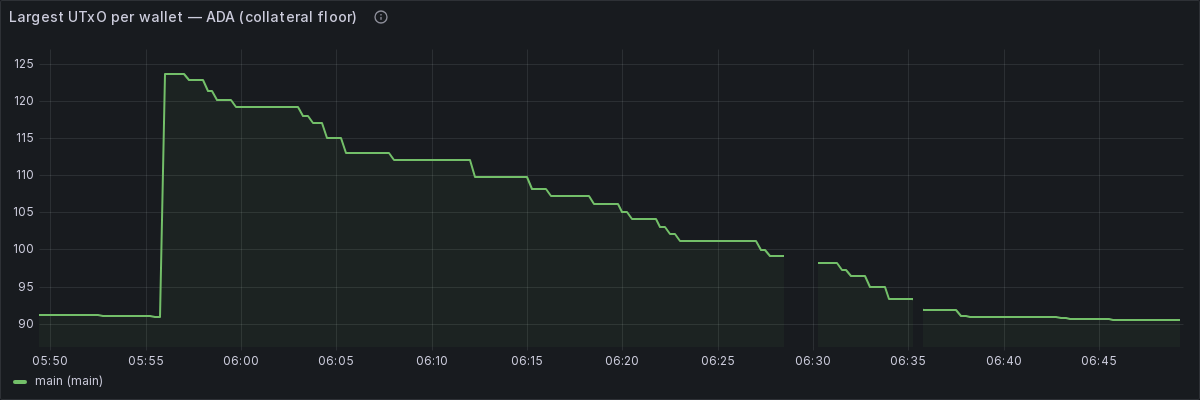
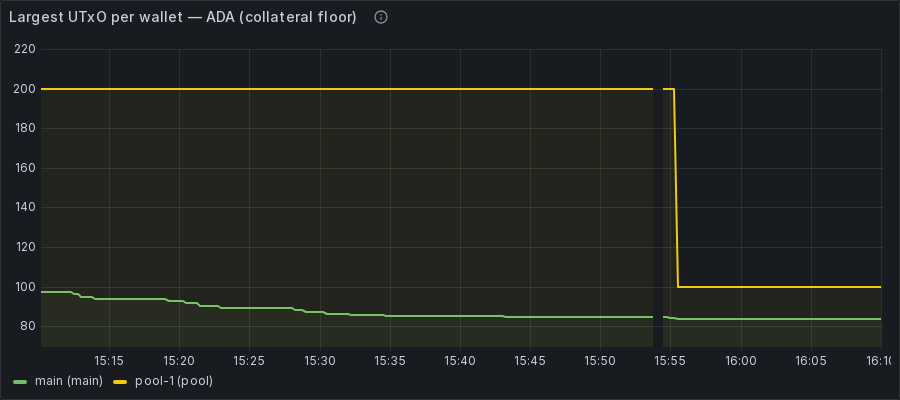
docs(architecture): document the final wallet-shaping behavior + re-render dashboards
- feeder README, feeder.md, grafana-dashboards.md: the auto-split trigger is
  the usable-UTxO count (no balance gate), funding pays the missing shape
  pieces in one tx, working-first with collateral only once lanes are full;
  re-aligned alert/threshold numbers (PoolWalletLow 150, WalletConcentrated =
  usable < 5) and the metric catalog.
- Re-render the Signer Wallets dashboard (5 panels): add the new Total balance
  panel image; refresh the others against live multi-wallet data.

diff --git a/docs/architecture/grafana-dashboards.md b/docs/architecture/grafana-dashboards.md
@@ -47,8 +47,8 @@ shown as `{…}`). Dashboard PNG snapshots are rendered by `make evidence3` (the
 | **Signer Wallets** | `feeder-wallets` | per signer wallet | "Is each signer wallet funded, collateral-capable, and split enough to feed parallel lanes?" |
 
 The **Signer Wallets** dashboard (filter: `$wallet`) shows the multi-wallet pool's
-per-wallet `cardano_wallet_*{wallet,role}` gauges — spendable balance, largest UTxO
-(collateral floor), usable-UTxO count, and active arbiter reservations — backing the
+per-wallet `cardano_wallet_*{wallet,role}` gauges — total balance, spendable balance,
+largest UTxO (collateral floor), usable-UTxO count, and active arbiter reservations — backing the
 `PoolWalletLow` / `MainWalletCannotFundPool` / `WalletConcentrated` alerts.
 
 **Why different units?** The feeder batches: one Cardano transaction can carry **N price
@@ -127,7 +127,7 @@ what changes:
 | **Admin / PaymentHook / Receiver-accrued (sum) · Scanner block lag · Provider health** | – | – | – | – | – |
 | Tx fee avg · Tx involving router | ✓ | ✓ | ✓ | (fee only) | – |
 | All Transactions-dashboard panels | ✓ | ✓ | (membership) | (membership) | – |
-| **Signer Wallets panels** (spendable · largest UTxO · usable UTxOs · reservations) | – | – | – | – | – |
+| **Signer Wallets panels** (total · spendable · largest UTxO · usable UTxOs · reservations) | – | – | – | – | – |
 
 > The **global** panels never change with filters: *Admin / PaymentHook / Receiver-accrued
 > (sum)* (protocol-wide singletons), *Scanner block lag* (one scanner), and *Provider health*
@@ -783,7 +783,7 @@ Per signer-wallet health for the multi-wallet pool (filtered by `network` **and*
 one place to answer "is each wallet funded, collateral-capable, and spread across enough UTxOs to
 feed parallel lanes?". The feeder signs every Cardano tx from a **pool** of wallets; an arbiter hands
 each concurrent lane a disjoint subset of one wallet's UTxOs so two lanes never pick the same input.
-These four gauges are emitted once per balance-refresh tick, one series per wallet, and back the
+These five gauges are emitted once per balance-refresh tick, one series per wallet, and back the
 `PoolWalletLow` / `MainWalletCannotFundPool` / `WalletConcentrated` alerts.
 
 The `$wallet` filter is a multi-value list of every wallet id (default `.*` = all). `wallet="main"`
@@ -792,6 +792,18 @@ is the wallet registered on-chain as the PaymentHook `withdrawAddress` (where wi
 runs a one-wallet pool, so the dashboard shows a single `main` series — see the README's signer-pool
 section for enabling pool wallets.
 
+**Total balance per wallet — ADA** · `timeseries` · ADA — `dia_bridge_cardano_wallet_total_lovelace{…, wallet=~"$wallet"} / 1e6`
+
+![Total balance per wallet — ADA](img/wallets-panel-5.png)
+
+- **What it shows** — each wallet's gross lovelace across **all** live UTxOs at that address,
+  including UTxOs currently reserved by a lane and UTxOs that also carry native assets.
+- **How to read it** — this is the inventory view. Compare it with the spendable panel to spot
+  a wallet that looks rich in total ADA but has little actually available for the next build.
+- **When to worry** — a wide, persistent gap between total and spendable usually means the wallet
+  is tied up in active reservations, fragmented into unusable/token-bearing UTxOs, or waiting on
+  the next balance-refresh tick after recent movement.
+
 **Spendable per wallet — ADA** · `timeseries` · ADA — `dia_bridge_cardano_wallet_spendable_lovelace{…, wallet=~"$wallet"} / 1e6`
 
 ![Spendable per wallet — ADA](img/wallets-panel-1.png)
@@ -799,9 +811,9 @@ section for enabling pool wallets.
 - **What it shows** — each wallet's spendable balance: the lovelace in **unlocked, pure-ADA** UTxOs,
   i.e. what a new tx can actually draw on (locked/reserved UTxOs and asset-bearing UTxOs are excluded).
   One line per wallet (`{{wallet}} ({{role}})`).
-- **How to read it** — green at/above **50 ADA**; the band between a pool wallet's low mark and its
-  fill target gives the funding hysteresis.
-- **When to worry** — a `role="pool"` wallet below **50 ADA** (`wallet_pool.pool_wallet_low_lovelace`)
+- **How to read it** — green at/above **150 ADA**; the band between a pool wallet's low mark and its
+  fill target (550 ADA) gives the funding hysteresis.
+- **When to worry** — a `role="pool"` wallet below **150 ADA** (`wallet_pool.pool_wallet_low_lovelace`)
   is auto-funded from the main; if the **main** itself is below its **100 ADA** reserve
   (`main_wallet_reserve_lovelace`) it can no longer fund the pool → `MainWalletCannotFundPool`
   (top the main up via settle + withdraw, or externally).
@@ -815,9 +827,9 @@ section for enabling pool wallets.
   can build at all.
 - **How to read it** — green at/above the **10 ADA** collateral floor.
 - **When to worry** — below the floor the wallet is **fragmented** (shattered into dust, no
-  collateral-capable UTxO) → `WalletFragmented`, auto-`consolidate`. Far above it (**> 550 ADA**,
-  `big_utxo_above_lovelace`) **with too few usable UTxOs** the wallet is **concentrated** → it can't
-  feed parallel lanes → `WalletConcentrated`, auto-`split`. The two are mutually exclusive.
+  collateral-capable UTxO) → `WalletFragmented`, auto-`consolidate`. The OPPOSITE problem,
+  **concentration**, is judged on the usable-UTxO *count* (next panel), not this size — a wallet can
+  hold a big balance yet still be split for lanes. The two are mutually exclusive.
 
 **Usable UTxOs per wallet** · `timeseries` · count — `dia_bridge_cardano_wallet_usable_utxos{…}`
 
@@ -827,9 +839,10 @@ section for enabling pool wallets.
   **disjoint inputs** the arbiter can hand to concurrent lanes. This is the parallelism budget of the
   wallet.
 - **How to read it** — green at/above **5** (`wallet_shape.min_usable_utxos`).
-- **When to worry** — below 5 **with a splittable (> 550 ADA) UTxO present**, the wallet is split to
-  mint more usable pieces (filled up to `working_utxo_count` = 10, above the trigger, for hysteresis).
-  Few usable UTxOs and no big UTxO to split is instead the fragmentation case above.
+- **When to worry** — below 5 the wallet is **concentrated** → auto-`split` carves its largest UTxO
+  into more lanes, working-first, filling up to `working_utxo_count` = 5 working + 5 collateral = ~10
+  usable (above the trigger, for hysteresis). There is no balance gate — the trigger is purely this
+  count. If the wallet is also out of large UTxOs to carve, that is the fragmentation case above.
 
 **Active reservations per wallet** · `timeseries` · count — `dia_bridge_cardano_wallet_reservations{…}`
 
@@ -892,9 +905,9 @@ All 20 alert rules in `monitoring/alerts.yml`, grouped by area. Severity: 🔴 c
 | PaymentHook accrued | ⚪ `PaymentHookWithdrawReady` | accrued above | **50 ADA** | `payment-hook:withdraw` (collect revenue) |
 | Admin wallet | 🔴 `AdminWalletLow` | balance below | **5 ADA** | `settle` then `payment-hook:withdraw` to refill |
 | Admin wallet largest UTxO | 🔴 `AdminWalletFragmented` | largest pure-ADA UTxO below | **10 ADA** | `wallet:consolidate` (usually auto) |
-| Signer Wallets — spendable (pool) | 🟡 `PoolWalletLow` | a `role="pool"` wallet spendable below | **50 ADA** | Auto-funds from the main (usually self-heals) |
+| Signer Wallets — spendable (pool) | 🟡 `PoolWalletLow` | a `role="pool"` wallet spendable below | **150 ADA** | Auto-funds from the main (usually self-heals) |
 | Signer Wallets — main reserve | 🔴 `MainWalletCannotFundPool` | a pool is low **and** the main is below its reserve | **main < 100 ADA** | Refill main: `settle` + `payment-hook:withdraw` into it |
-| Signer Wallets — largest UTxO + usable | 🟡 `WalletConcentrated` | usable UTxOs < 5 **and** largest UTxO above | **550 ADA** | `wallet:split` (usually auto) |
+| Signer Wallets — usable UTxOs | 🟡 `WalletConcentrated` | usable UTxOs below (any balance) | **5 UTxOs** | `wallet:split` (usually auto) |
 | Reorg counter | 🟡 `ReorgRateHigh` | reorgs per hour over | **3 / h** | Check provider lag + scanner block lag |
 | Provider health (primary) | 🔴 `PrimaryProviderDown` | primary no success for | **600 s** | Rotate the key / switch `CARDANO_PROVIDER`, `make restart` |
 | Provider health (secondary) | 🟡 `SecondaryProviderDown` | secondary no probe for | **900 s** | Fix/rotate its endpoint in `feeder/.env`, `make restart` |
@@ -936,8 +949,9 @@ hand out). A **reservation** is one lane's hold on a wallet's UTxOs while it bui
 
 **Fragmented vs concentrated** (opposite, mutually exclusive). *Fragmented* = shattered into dust,
 no collateral-capable UTxO → builds trap (`AdminWalletFragmented`, auto-`consolidate`).
-*Concentrated* = a few big UTxOs but too few usable ones → can't feed parallel lanes
-(`WalletConcentrated`, auto-`split`). Architecture deep-dive: [`feeder.md` → Signer-wallet pool](./feeder.md#signer-wallet-pool--per-wallet-parallelism).
+*Concentrated* = too few usable UTxOs (by COUNT, not balance) → can't feed parallel lanes
+(`WalletConcentrated`, auto-`split`, which carves the largest UTxO into more lanes). Architecture
+deep-dive: [`feeder.md` → Signer-wallet pool](./feeder.md#signer-wallet-pool--per-wallet-parallelism).
 
 ## 11. Screenshots
 

diff --git a/docs/architecture/feeder.md b/docs/architecture/feeder.md
@@ -994,9 +994,10 @@ metric-family reference.
 | `cardano_payment_hook_accrued_lovelace` | Fees in the PaymentHook → `PaymentHookWithdrawReady`. |
 | `cardano_admin_wallet_lovelace` | Admin/signer wallet total → `AdminWalletLow`. |
 | `cardano_admin_wallet_max_utxo_lovelace` | Largest pure-ADA UTxO (collateral floor) → `AdminWalletFragmented`. |
+| `cardano_wallet_total_lovelace{wallet,role}` | Per signer-wallet total ADA across all live UTxOs. |
 | `cardano_wallet_spendable_lovelace{wallet,role}` | Per signer-wallet spendable ADA → `PoolWalletLow` / `MainWalletCannotFundPool`, and the funding loop. |
-| `cardano_wallet_max_utxo_lovelace{wallet,role}` | Per-wallet largest pure-ADA UTxO → `WalletConcentrated` (split) / fragmentation. |
-| `cardano_wallet_usable_utxos{wallet,role}` | Per-wallet count of collateral-capable UTxOs (lanes it can feed) → `WalletConcentrated`. |
+| `cardano_wallet_max_utxo_lovelace{wallet,role}` | Per-wallet largest pure-ADA UTxO → fragmentation (collateral floor). |
+| `cardano_wallet_usable_utxos{wallet,role}` | Per-wallet count of collateral-capable UTxOs (lanes it can feed) → `WalletConcentrated` (split trigger). |
 | `cardano_wallet_reservations{wallet,role}` | Per-wallet active arbiter reservations (lanes building against it). |
 | `cardano_deposit_pending_lovelace{client_id,deposit_address}` | Un-merged side-deposits per client. |
 
@@ -1209,8 +1210,8 @@ same Receiver are **mutually exclusive by construction**, never racing.
 | **auto-settle** | Receiver `accrued` ≥ threshold | drain accrued → PaymentHook (`settle`) | `auto_settle_lovelace` |
 | **auto-withdraw** | PaymentHook `accrued` ≥ threshold | PaymentHook → admin wallet (`payment-hook:withdraw`), refilling the wallet | `auto_withdraw_lovelace` |
 | **auto-consolidate** | largest pure-ADA wallet UTxO < threshold (too FRAGMENTED) | fold dust into a dedicated collateral UTxO + working balance (`wallet:consolidate`) | `auto_consolidate_below_lovelace` |
-| **auto-split** | a UTxO > `big_utxo_above` AND too few usable UTxOs (too CONCENTRATED) | break the big UTxO into the target profile (`wallet:split`) | `wallet_shape.*` + `auto_split` |
-| **auto-fund** | a **pool** wallet's spendable < low band | top it up from the main wallet | `wallet_pool.*` |
+| **auto-split** | fewer than `min_usable_utxos` usable UTxOs (too CONCENTRATED), regardless of balance | carve the largest UTxO into more lanes (`wallet:split`) | `wallet_shape.*` + `auto_split` |
+| **auto-fund** | a **pool** wallet's spendable < low band | top it up from the main, paid as the missing shape pieces in one tx | `wallet_pool.*` |
 
 **Ordering invariant — alert first, automatic after.** Every `auto_*` threshold sits
 **beyond** its paired alert so the operator-facing alert fires *first* and the automatic
@@ -1252,28 +1253,39 @@ own alert, auto-flag, and manual command:
 | Direction | Symptom | Path | Alert |
 |---|---|---|---|
 | **Fragmented** | shattered into sub-collateral dust → no collateral-capable UTxO → every build traps | `wallet:consolidate` (merge dust → 1 collateral + working) | `AdminWalletFragmented` |
-| **Concentrated** | a few big UTxOs → too few disjoint inputs to feed lanes | `wallet:split` (break a `> big_utxo_above` UTxO into the profile, rest as change) | `WalletConcentrated{wallet}` |
+| **Concentrated** | too few disjoint usable UTxOs to feed lanes (by COUNT, not size) | `wallet:split` (carve the largest UTxO into more lanes, rest as change) | `WalletConcentrated{wallet}` |
 
-The two are mutually exclusive (dust ⇒ no big UTxO; concentrated ⇒ no dust). The pure
-planner `planWalletSplit` lives in the **CLI** (`cli/src/wallet/split-plan.ts`, beside
-its `split-wallet` executor); the feeder imports it and maps `wallet_shape` YAML over
-the CLI's default profile in `resolveWalletShapeProfile`.
+The two are mutually exclusive (dust ⇒ no large UTxO to carve; concentrated ⇒ no dust).
+The shape is computed by one shared pure planner — `planShapeOutputs` (and its split
+wrapper `planWalletSplit`) — in the **CLI** (`cli/src/wallet/split-plan.ts`, beside its
+`split-wallet` executor); the feeder imports it and maps `wallet_shape` YAML over the
+CLI's default profile in `resolveWalletShapeProfile`.
 
-**Hysteresis (no per-tick oscillation).** The split TRIGGER is `min_usable_utxos`
-(5) — a wallet with fewer usable UTxOs and a big UTxO is split. But a split FILLS
-working UTxOs up to `working_utxo_count` (**10**, deliberately above the trigger),
-minting only what the big UTxO funds and leaving the rest as **one** change UTxO (never
-fanned into many pieces). So a split takes the wallet from `<5` usable up to `~10`,
-then it drains back to 5 before the next split — it does not split, use one, and
-immediately re-split. Collateral fills to `collateral_utxo_count` (5): it is returned
-on a successful tx (it does not drain), so it needs no headroom.
+**Working-first, no balance gate.** The split TRIGGER is purely the usable-UTxO COUNT
+(`min_usable_utxos` = 5) — concentration is about count, not size, so a wallet holding
+200 ADA as one UTxO is split exactly like one holding 600. The planner carves the
+**largest** pure-ADA UTxO into pieces **working-first**: up to `working_utxo_count`
+working lanes (5 × 100 ADA), and only once the lanes are full does it mint the dedicated
+collateral (5 × 10 ADA). A small wallet therefore becomes all lanes; the balancer returns
+the remainder as **one** change UTxO (itself a usable lane). It never fans a UTxO into
+pieces beyond the profile, and it **self-terminates** — once a wallet is as shaped as its
+balance allows the planner no-ops, so the trigger can fire each tick without churn.
+
+**Hysteresis (no per-tick oscillation).** A full shape is 5 working + 5 collateral = **10**
+usable UTxOs, well above the trigger of 5, so a freshly shaped wallet does not immediately
+re-split: it drains back below 5 before the next split.
 
 **Funding (main → pool).** Pool wallets drain (they pay fees) and only the main
 self-funds. On the balance tick the daemon tops up any pool wallet below
-`wallet_pool.pool_wallet_low_lovelace` to `pool_wallet_target_lovelace`, never drawing
+`wallet_pool.pool_wallet_low_lovelace` to `pool_wallet_target_lovelace` — paying the
+**missing shape pieces straight to the pool** (via the same `planShapeOutputs`) in ONE
+tx, so a freshly funded pool is usable immediately with no second split. It never draws
 the main below `main_wallet_reserve_lovelace` (else `MainWalletCannotFundPool` fires).
 The fund tx reserves the main's UTxOs through the arbiter, so it runs **detached** from
-the client lanes — the arbiter's `unavailable` is the backpressure, no extra lane.
+the client lanes — the arbiter's `unavailable` is the backpressure, no extra lane. Split
+re-shapes a wallet that DRIFTED concentrated (mainly the main, which has no funding path);
+funding shapes a pool on arrival — the two never act on the same need, so neither pays a
+redundant fee.
 
 All of split / fund / consolidate run once per tick over the pool from the arbiter's
 per-wallet snapshot (`bridge.walletStats()`), each gated by its own flag and a

diff --git a/offchain/feeder/README.md b/offchain/feeder/README.md
@@ -1037,9 +1037,9 @@ Price deviation is **percent** (0–100).
 | `PaymentHookWithdrawReady` | `dia_bridge_cardano_payment_hook_accrued_lovelace` | `payment_hook_withdraw_ready_lovelace` | `50 000 000` (50 ADA) | `make cli CMD="payment-hook:withdraw --amount-lovelace <lovelace> --protocol-state /app/offchain/state/preview_run_<id>/config-bootstrap.json"` |
 | `AdminWalletLow` | `dia_bridge_cardano_admin_wallet_lovelace` | `admin_wallet_low_lovelace` | `5 000 000` (5 ADA) | Collect protocol revenue into this wallet: `settle` then `payment-hook:withdraw` (the withdraw_address is this wallet). Only if there is no accrued revenue, fund the address in `state/<net>_run_<id>/config-bootstrap.json` externally (Preview: faucet). |
 | `AdminWalletFragmented` | `dia_bridge_cardano_admin_wallet_max_utxo_lovelace` | `admin_wallet_min_collateral_lovelace` | `10 000 000` (10 ADA) | The wallet's **largest** pure-ADA UTxO fell below the collateral floor — no UTxO can back collateral and builds trap, even if the total looks fine. The daemon auto-consolidates below `auto_consolidate_below_lovelace`; to force it: `make cli CMD="wallet:consolidate"`. |
-| `WalletConcentrated` | `dia_bridge_cardano_wallet_max_utxo_lovelace` + `_usable_utxos` | `wallet_shape.big_utxo_above_lovelace` + `min_usable_utxos` | `550` ADA / `5` UTxOs | A signer wallet (label `{{wallet}}`) holds a big UTxO but too few usable UTxOs to feed parallel lanes (the OPPOSITE of fragmentation). The daemon auto-splits when `auto_split` is on; to force it: `make cli CMD="wallet:split"`. |
-| `PoolWalletLow` | `dia_bridge_cardano_wallet_spendable_lovelace{role="pool"}` | `wallet_pool.pool_wallet_low_lovelace` | `50 000 000` (50 ADA) | A pool wallet drained; the daemon auto-funds it from the main. Persists only if the main can't fund it — then refill the main (`settle` + `payment-hook:withdraw`). |
-| `MainWalletCannotFundPool` | `dia_bridge_cardano_wallet_spendable_lovelace{role="pool"}` + `{role="main"}` | `wallet_pool.pool_wallet_low_lovelace` + `main_wallet_reserve_lovelace` | `50` / `100` ADA | A pool wallet is **actually below its low mark** AND the main is below its reserve, so auto-funding is STUCK — the low pool will drain. The escalation of `PoolWalletLow` (a pool that can't self-heal). Refill the main from protocol revenue or externally. |
+| `WalletConcentrated` | `dia_bridge_cardano_wallet_usable_utxos` | `wallet_shape.min_usable_utxos` | `5` UTxOs | A signer wallet (label `{{wallet}}`) has too few usable UTxOs to feed parallel lanes — concentration is about UTxO COUNT, not balance (the OPPOSITE of fragmentation). The daemon auto-splits when `auto_split` is on; to force it: `make cli CMD="wallet:split"`. |
+| `PoolWalletLow` | `dia_bridge_cardano_wallet_spendable_lovelace{role="pool"}` | `wallet_pool.pool_wallet_low_lovelace` | `150 000 000` (150 ADA) | A pool wallet drained; the daemon auto-funds it from the main. Persists only if the main can't fund it — then refill the main (`settle` + `payment-hook:withdraw`). |
+| `MainWalletCannotFundPool` | `dia_bridge_cardano_wallet_spendable_lovelace{role="pool"}` + `{role="main"}` | `wallet_pool.pool_wallet_low_lovelace` + `main_wallet_reserve_lovelace` | `150` / `100` ADA | A pool wallet is **actually below its low mark** AND the main is below its reserve, so auto-funding is STUCK — the low pool will drain. The escalation of `PoolWalletLow` (a pool that can't self-heal). Refill the main from protocol revenue or externally. |
 | `PriceDeviationHigh` | `dia_bridge_price_deviation_percent_bucket` (p95) | `price_deviation_high_percent` | `5` % | Investigate DIA source — possible misreport. |
 | `PriceAgeHigh` | `dia_bridge_price_age_seconds_bucket` (p95) | `price_age_high_seconds` | `600` s | DIA source publishing stale prices for a **routed** pair (the metric is scoped to symbols this feeder publishes, not every scanned symbol). |
 | `ReorgRateHigh` | `dia_bridge_transactions_reorg_total` | `reorg_rate_high_per_hour` | `> 3 / 1 h` | Check provider lag + scanner block-lag panel. |
@@ -1089,15 +1089,15 @@ test. Each `auto_*` key is optional; unset disables that step.
 | `auto_settle_lovelace` | `30 000 000` (30 ADA) | Receiver accrued ≥ this → auto `settle` | `SettleOverdue` (10 ADA) |
 | `auto_withdraw_lovelace` | `100 000 000` (100 ADA) | PaymentHook accrued ≥ this → auto `payment-hook:withdraw` | `PaymentHookWithdrawReady` (50 ADA) |
 | `auto_consolidate_below_lovelace` | `7 000 000` (7 ADA) | largest wallet UTxO < this → auto `wallet:consolidate` | `AdminWalletFragmented` (10 ADA) |
-| `auto_split` | `true` | a wallet is concentrated (UTxO > `big_utxo_above` AND usable < `min_usable_utxos`) → auto `wallet:split` (fills working up to `working_utxo_count`=10) | `WalletConcentrated` |
-| `wallet_pool.*` band | low `50` / target `200` ADA | a **pool** wallet's spendable < low → auto-fund from the main up to target | `PoolWalletLow` / `MainWalletCannotFundPool` |
+| `auto_split` | `true` | a wallet has fewer than `min_usable_utxos` usable UTxOs (regardless of balance) → auto `wallet:split` (carves the largest UTxO into lanes, working-first up to `working_utxo_count`=5) | `WalletConcentrated` |
+| `wallet_pool.*` band | low `150` / target `550` ADA | a **pool** wallet's spendable < low → auto-fund from the main up to target, paid as the missing `wallet_shape` pieces in one tx (so the pool lands usable immediately) | `PoolWalletLow` / `MainWalletCannotFundPool` |
 
-`wallet:consolidate` (fragmented → merge) and `wallet:split` (concentrated → break a big
-UTxO into the profile) are also **manual** commands:
+`wallet:consolidate` (fragmented → merge) and `wallet:split` (concentrated → carve the
+largest UTxO into the profile) are also **manual** commands:
 
 ```bash
 make cli CMD="wallet:consolidate"   # or: npm run cli -- wallet:consolidate [--max-inputs 60]
-make cli CMD="wallet:split"         # or: npm run cli -- wallet:split [--big-utxo-above 550000000] [--build-only]
+make cli CMD="wallet:split"         # or: npm run cli -- wallet:split [--working-count 5] [--build-only]
 ```
 
 They are the two opposite UTxO-shape fixes; both are plain self-payments needing no
